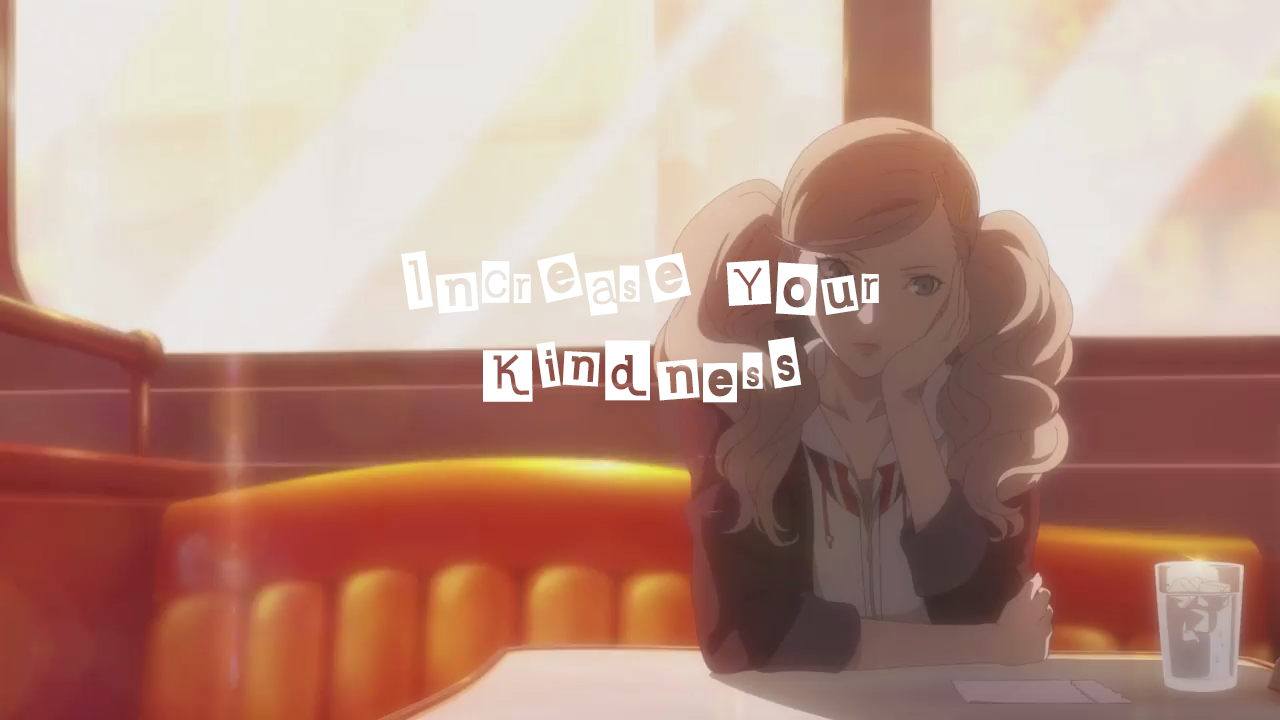
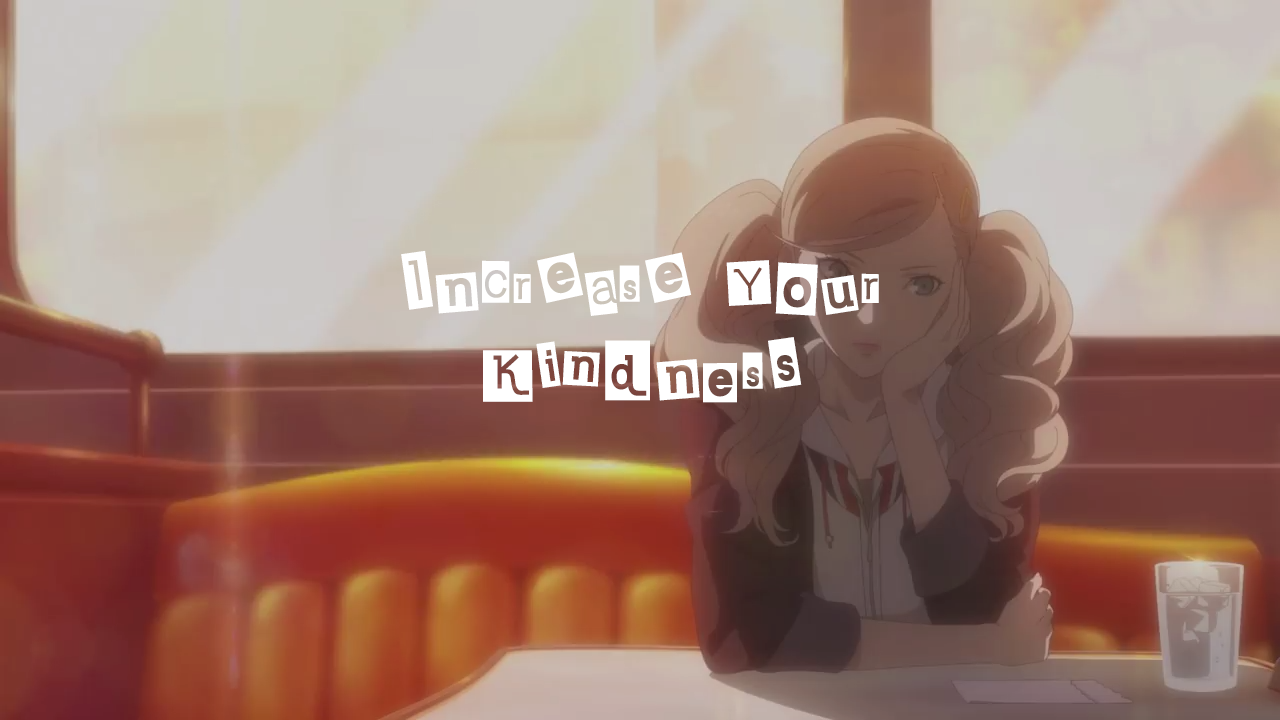
Social images darkened/bulletpoints added

diff --git a/css/style.css b/css/style.css
@@ -2,11 +2,19 @@ body {
     background-color: #f6f6f6;
 }
 
-.no-padding {
-  padding-left: 0;
-  padding-right: 0;
-}
+ /*.background {
+   background-image: linear-gradient(rgba(0, 0, 0, 0.5), rgba(0, 0, 0, 0.5)), url(/html/img/Social/cross-over2.jpg);
+    background-repeat: no-repeat;
+    background-attachment: fixed;
+    background-position: center;
+    background-size: cover;
+  
+}*/
 
+.no-padding {
+    padding-left: 0;
+    padding-right: 0;
+}
 
 .white {
     background-color: white;
@@ -81,17 +89,15 @@ body {
 }
 
 .character-block {
-
     height: 500px;
     background-image: url(img/testfolder/p5cover2.jpg);
     background-size: cover;
     margin-bottom: 20px;
-      background-position: 5%;
+    background-position: 5%;
     box-shadow: 4px 4px 4px #888888;
 }
 
 .seperate-block-top {
-
     background-image: url(img/testfolder/p5test.jpg);
     background-size: cover;
     height: 245px;
@@ -156,8 +162,6 @@ body {
     background-image: linear-gradient(rgba(0, 0, 0, 3), rgba(0, 0, 0, 0.6)), url(img/covers/persona.jpg);
     background-size: cover;
     background-position: 50% 20%;
-   
- 
 }
 
 .under-text {
@@ -213,9 +217,7 @@ a.back-to-top {
 }
 
 .social-img {
-  
     margin-bottom: 40px;
-
 }
 
 .social-title {
@@ -232,9 +234,8 @@ a.back-to-top {
 .knowledge-img {
     margin-top: 15px;
     padding-bottom: 40px;
-    padding-left:30px;
-    padding-right:30px;
-  
+    padding-left: 30px;
+    padding-right: 30px;
 }
 
 .knowledge-title {
@@ -252,9 +253,8 @@ a.back-to-top {
 .guts-img {
     margin-top: 15px;
     padding-bottom: 40px;
-    padding-left:30px;
-    padding-right:30px;
-  
+    padding-left: 30px;
+    padding-right: 30px;
 }
 
 .guts-title {
@@ -272,9 +272,8 @@ a.back-to-top {
 .proficiency-img {
     margin-top: 15px;
     padding-bottom: 40px;
-    padding-left:30px;
-    padding-right:30px;
-  
+    padding-left: 30px;
+    padding-right: 30px;
 }
 
 .proficiency-title {
@@ -292,11 +291,9 @@ a.back-to-top {
 .kindness-img {
     margin-top: 15px;
     padding-bottom: 40px;
-    padding-left:30px;
-    padding-right:30px;
-  
+    padding-left: 30px;
+    padding-right: 30px;
 }
-
 
 .kindness-title {
     margin-bottom: 30px;
@@ -313,9 +310,8 @@ a.back-to-top {
 .charm-img {
     margin-top: 15px;
     padding-bottom: 40px;
-    padding-left:30px;
-    padding-right:30px;
-  
+    padding-left: 30px;
+    padding-right: 30px;
 }
 
 .charm-title {
@@ -331,6 +327,5 @@ a.back-to-top {
 }
 
 .no-scroll {
-    overflow-x:hidden;
+    overflow-x: hidden;
 }
-

diff --git a/social.html b/social.html
@@ -42,7 +42,7 @@
         </div>
 
     </div>
-
+<div class="background">
     <div class="white container no-padding no-scroll">
         <div class="row">
             <div class="col-lg-12">
@@ -175,6 +175,17 @@
                             </tr>
                         </tbody>
                     </table>
+                    <ul>
+                        <li>Answering test question correctly.</li>
+                        <li>Studying at the school libary (Also sometimes increases Guts).</li>
+                        <li>Study using the booths at Leblanc (do this on a rainy day for additional points).</li>
+                        <li>Leblanc Crossword</li>
+                        <li>Drinking Coffee or Frui-Tea in Shibuya diner.</li>
+                        <li>Watch "Back To The Ninja" at the cinemma during Oct-Nov.</li>
+                        <li>Take part in study sessions with your friends.</li>
+                        <li>Buy/Read books from the places located on the table and read when avaliable.</li>
+                       
+                    </ul>
                 </div>
 
                 <img class="guts-img img-fluid" src="html/img/Social/guts.png">
@@ -281,6 +292,17 @@
                             </tr>
                         </tbody>
                     </table>
+                    <ul>
+                     <li>Take part in Tae Takemi's clinical trials.</li>
+                     <li>Buy Coffee from diner in Shibuya (also raises Knowledge sometimes.</li>
+                     <li>Take part in the Big Bang Burger challenge in Shibuya.</li>
+                     <li>Work at the Crossroads bar.</li>
+                     <li>Watch Bout Zero Time at Shinjuku cinema on 6/22.</li>
+                     <li>Watch Zaw at Shinjuku cinema on 9/13.</li>
+                     <li>Play Star Forneus (bought from the second hand store).</li>
+                     <li>Play Power Intuition (bought from Akihabra Retro Game Shop).</li>
+                     Buy/Read books from the places located on the table and read when avaliable.
+                     </ul>
                 </div>
 
                 <img class="proficiency-img img-fluid" src="html/img/Social/prof2.png">
@@ -434,7 +456,7 @@
 
     </div>
 
-
+</div>
 
 
 
